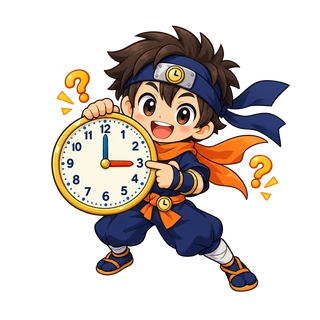
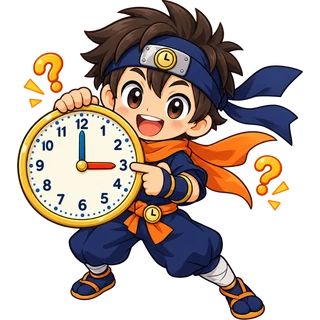
fix(とけい修行): しゅぎょうカードの絵を余白なしで切り出し直し、一回り大きく出す

diff --git a/css/ninja-kids.css b/css/ninja-kids.css
@@ -3437,3 +3437,8 @@ body.ninja-space .sa-card:not(.sa-result):not(.sa-ref-card)>.sa-question-text{
     inset 0 0 0 6px rgba(208,170,92,.75),
     0 18px 44px rgba(0,0,0,.28);
 }
+/* とけいの絵は時計ごと描いてあって人物が小さく見えるので、かんじ・かけざんより一回り大きく出す（2026-09-23） */
+.ninja-kids.ninja-tokei .tk-choice-img{ height:clamp(40px,54%,170px); }
+@media (max-width:400px) {
+  .ninja-kids.ninja-tokei .tk-choice-img{ height:clamp(40px,34%,170px); }
+}
